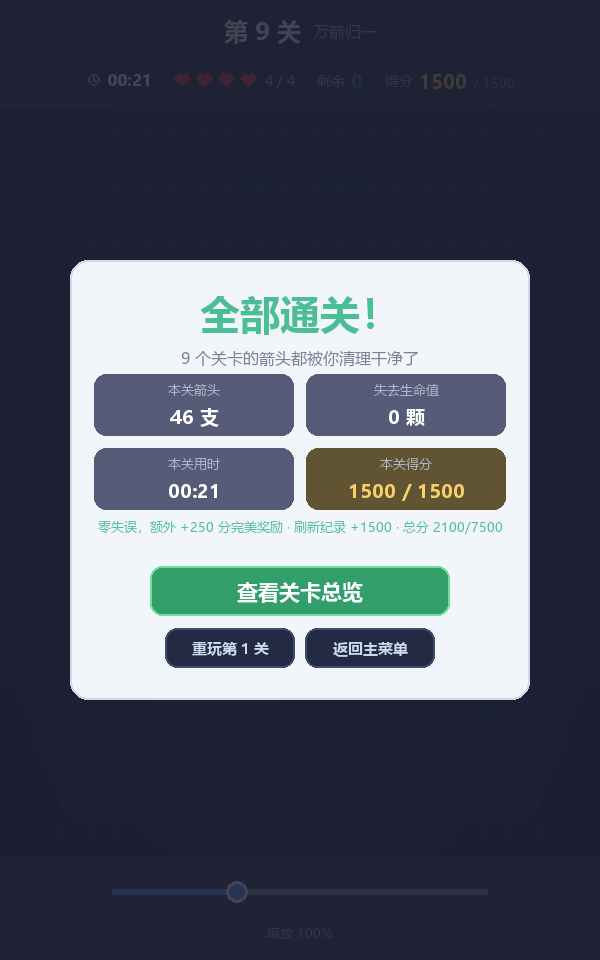
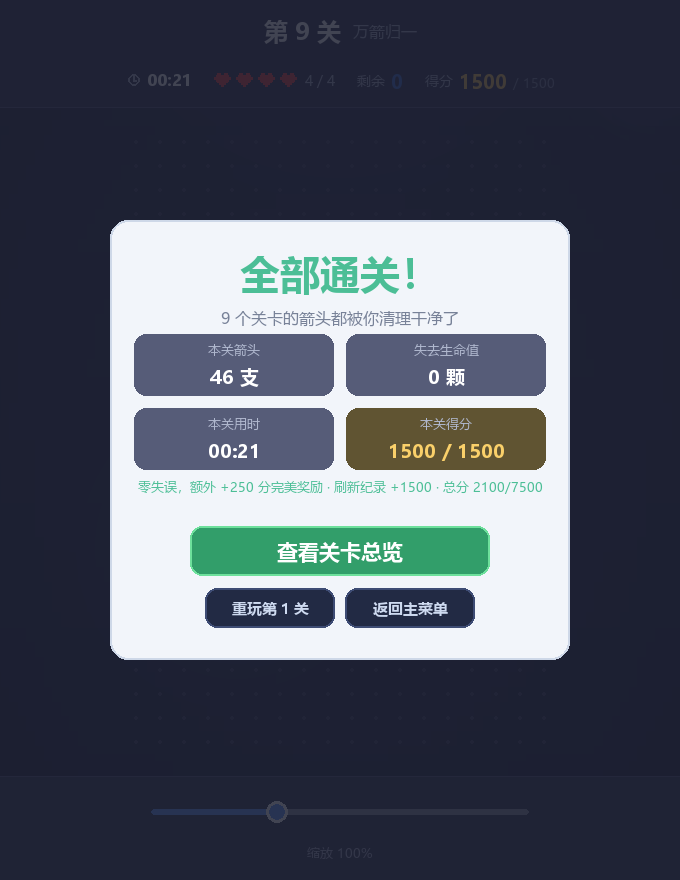
feat: 窗口 680x880 自适应屏幕 + 飞出动效更丝滑
- 窗口 600x960 -> 680x880（更宽更矮），顶栏底栏留白更从容
- main.py 屏幕装不下时自动把整幅逻辑画面等比 smoothscale 缩进
  窗口（逻辑坐标不变，鼠标坐标按比例换算），任何电脑都能看全
- 飞出缓动幂次 1.7 -> 1.35（config.FLY_EASE_POWER）：
  起步立刻有位移、末速收敛，不再「卡一下再飞」
- 飞出帧改 2 倍画布超采样抗锯齿（先和视口裁剪求交，
  实测单帧 +0.2ms），运动边缘不再有锯齿
- 关卡总览页脚两行 y 改为从窗口高度倒推（写死 882 在
  880 高的窗口里正好被裁掉）
- 截图 16 张 + 演示 GIF（408x528 / 199 帧 / 2625 KB）重录
- README / blog（新增记录 17、AIGC 表 19 条）/ 检查清单同步

diff --git a/main.py b/main.py
@@ -22,10 +22,51 @@ from game import config, ui
 from game.app import Game
 
 
+# 屏幕装不下逻辑分辨率时的缩放下限：再小按钮和文字就挤成一团了
+MIN_WINDOW_SCALE = 0.45
+
+
+def _setup_screen():
+    """决定窗口大小，返回 (给 Game 用的画布, 实际窗口, 缩放比)。
+
+    逻辑分辨率永远是 config 里的 680×880——所有界面代码、截图脚本、
+    测试都只认这一套坐标。屏幕装不下时开一个更小的窗口，把整幅逻辑
+    画面 smoothscale 缩进去（等比、带抗锯齿），鼠标坐标再按比例换算
+    回来——游戏代码完全不用感知缩放，电脑上也能看到完整界面。
+    """
+    try:
+        info = pygame.display.Info()
+    except pygame.error:
+        info = None
+    scale = 1.0
+    if info is not None and info.current_w > 0:
+        scale = min(1.0,
+                    (info.current_w - 60) / config.WINDOW_WIDTH,
+                    (info.current_h - 90) / config.WINDOW_HEIGHT)
+        scale = max(scale, MIN_WINDOW_SCALE)
+    if scale >= 1.0:
+        window = pygame.display.set_mode((config.WINDOW_WIDTH, config.WINDOW_HEIGHT))
+        return window, window, 1.0
+    window = pygame.display.set_mode((int(config.WINDOW_WIDTH * scale),
+                                      int(config.WINDOW_HEIGHT * scale)))
+    canvas = pygame.Surface((config.WINDOW_WIDTH, config.WINDOW_HEIGHT))
+    return canvas, window, scale
+
+
+def _rescale_event(event, scale):
+    """把窗口坐标系的鼠标事件换算成逻辑画布坐标系（缩小窗口时用）。"""
+    if scale >= 1.0 or not hasattr(event, "pos") or event.pos is None:
+        return event
+    event.pos = (event.pos[0] / scale, event.pos[1] / scale)
+    if getattr(event, "rel", None) is not None:
+        event.rel = (event.rel[0] / scale, event.rel[1] / scale)
+    return event
+
+
 def main():
     pygame.init()
     try:
-        screen = pygame.display.set_mode((config.WINDOW_WIDTH, config.WINDOW_HEIGHT))
+        canvas, window, scale = _setup_screen()
     except pygame.error as error:            # 例如没有可用的显示设备
         print("无法创建游戏窗口：%s" % error)
         return 1
@@ -35,14 +76,16 @@ def main():
         print("[警告] 未找到中文字体，界面中的中文可能显示为方块。")
 
     clock = pygame.time.Clock()
-    game = Game(screen)
+    game = Game(canvas)
 
     while game.running:
         delta = clock.tick(config.FPS) / 1000.0
         for event in pygame.event.get():
-            game.handle_event(event)
+            game.handle_event(_rescale_event(event, scale))
         game.update(min(delta, 0.05))        # 卡顿时限制单帧步长，避免动画跳帧
         game.draw()
+        if scale < 1.0:                      # 逻辑画面等比缩进实际窗口
+            pygame.transform.smoothscale(canvas, window.get_size(), window)
         pygame.display.flip()
 
     pygame.quit()

diff --git a/game/ui.py b/game/ui.py
@@ -487,6 +487,12 @@ def draw_piece_path(surface, origin, piece, cell, advance):
     直接往 surface 上画两遍（描边 + 本色），不走贴图缓存——贴图是刚体，
     表达不了「弯折在移动」。surface 已被调用方 set_clip 到棋盘视口，
     滑出去的部分会被裁掉。
+
+    抗锯齿：pygame.draw.line / circle 是硬边 API，飞得越快锯齿越晃眼。
+    所以每一帧先在 **2 倍画布**上把这支箭画一遍，再 smoothscale 回 1 倍——
+    相当于给动画开了 2×SSAA，运动边缘顺滑得多。只在飞出动画这一处这么干：
+    静态棋子走贴图缓存（每关渲染一次，开销无所谓），这里每帧都要画，
+    得控制住画布尺寸——先和视口裁剪框求交，箭头飞出视口的部分不画。
     """
     cell = max(4.0, float(cell))
     joints = [(origin[0] + x, origin[1] + y)
@@ -496,11 +502,36 @@ def draw_piece_path(surface, origin, piece, cell, advance):
     head_len = cell * config.PIECE_HEAD_RATIO
     span = cell * config.PIECE_HEAD_SPAN
     grow = 1.0 + config.PIECE_OUTLINE_RATIO
-    _paint_pipe(surface, joints, piece.direction,
+
+    ss = 2                                   # 超采样倍率
+    # 包围盒：折线各点 + 箭头尖伸出的一截，四周留出描边/圆头的余量
+    dx, dy = DIR_VECTORS[piece.direction]
+    tip = (joints[-1][0] + dx * head_len * 0.78,
+           joints[-1][1] + dy * head_len * 0.78)
+    xs = [p[0] for p in joints] + [tip[0]]
+    ys = [p[1] for p in joints] + [tip[1]]
+    pad = stroke * grow * 0.5 + head_len * grow + 2.0
+    bx0, by0 = min(xs) - pad, min(ys) - pad
+    bx1, by1 = max(xs) + pad, max(ys) + pad
+    # 与当前裁剪框求交：飞出视口的部分不必画，画布也不会被拖到很大
+    clip = surface.get_clip()
+    cx0 = max(bx0, clip.left)
+    cy0 = max(by0, clip.top)
+    cx1 = min(bx1, clip.right)
+    cy1 = min(by1, clip.bottom)
+    if cx1 <= cx0 or cy1 <= cy0:
+        return                               # 整支箭已经完全在视口外
+    w = int(math.ceil(cx1 - cx0))
+    h = int(math.ceil(cy1 - cy0))
+
+    canvas = pygame.Surface((w * ss, h * ss), pygame.SRCALPHA)
+    shifted = [((px - cx0) * ss, (py - cy0) * ss) for px, py in joints]
+    _paint_pipe(canvas, shifted, piece.direction,
                 mix_color(color, (0, 0, 0), config.PIECE_OUTLINE_DARKEN),
-                stroke * grow, head_len * grow, span * grow)
-    _paint_pipe(surface, joints, piece.direction, tuple(color),
-                stroke, head_len, span)
+                stroke * grow * ss, head_len * grow * ss, span * grow * ss)
+    _paint_pipe(canvas, shifted, piece.direction, tuple(color),
+                stroke * ss, head_len * ss, span * ss)
+    surface.blit(pygame.transform.smoothscale(canvas, (w, h)), (cx0, cy0))
 
 
 # ------------------------------------------------------------------ 光晕

diff --git a/game/config.py b/game/config.py
@@ -25,8 +25,13 @@
 """
 
 # ------------------------------------------------------------------ 窗口
-WINDOW_WIDTH = 600
-WINDOW_HEIGHT = 960
+# 680×880 而不是早年的 600×960：用户在电脑上窗口超出屏幕、看不到全貌，
+# 于是「改宽一点、也改矮一点」——宽度给了顶栏底栏更从容的排布，
+# 高度收掉 80px（主要来自棋盘视口），整窗在 1080p 屏幕上不再顶到任务栏。
+# 逻辑分辨率之外，main.py 还有第二道保险：屏幕实在装不下时按 pygame.SCALED
+# 整体等比缩小窗口，任何电脑都能看到完整界面。
+WINDOW_WIDTH = 680
+WINDOW_HEIGHT = 880
 WINDOW_TITLE = "一箭又一箭"
 FPS = 60
 
@@ -267,7 +272,12 @@ BG_SHOOT_INTERVAL = (999.0, 1000.0)
 BG_VIGNETTE_ALPHA = 40
 
 # ------------------------------------------------------------------ 动画
-FLY_DURATION = 0.40        # 一整支箭飞出动画时长（秒）
+FLY_DURATION = 0.38        # 一整支箭飞出动画时长（秒）
+# 飞出缓动的幂次：advance = travel * t^FLY_EASE_POWER。
+# 早年的 1.7 起步太黏——前 0.15 秒箭头几乎没动、然后突然窜出去，
+# 手感是「卡一下再飞」；1.35 起步更快、末速也更收敛，看起来是
+# 「被抓一把就顺顺地抽出去」。想要更猛的鞭子感可以调回 1.6~1.7。
+FLY_EASE_POWER = 1.35
 FLY_MARGIN_RATIO = 1.1     # 飞出距离额外多走这么多格
 IMPACT_DURATION = 0.36     # 撞击提示动画时长
 IMPACT_PUSH_RATIO = 0.18   # 撞击时前冲幅度（相对格距）

diff --git a/game/app.py b/game/app.py
@@ -1211,11 +1211,13 @@ class Game:
                          scoring.total_max_score(LEVELS)),
                      (self.width // 2, 748), size=14,
                      color=config.COLOR_TEXT_DIM, anchor="center")
+        # 页脚两行的 y 从窗口高度倒推，别写死——窗口从 960 改矮到 880 时，
+        # 写死的 882 正好落到屏幕外，底部那行快捷键提示被裁掉一半。
         ui.draw_text(self.screen, "点击卡片开始挑战；带锁的关卡需要先通关它前面的一关。",
-                     (self.width // 2, 856), size=13,
+                     (self.width // 2, self.height - 26), size=13,
                      color=config.COLOR_TEXT_FAINT, anchor="center")
         ui.draw_text(self.screen, "Esc 返回主菜单　　空格 继续挑战",
-                     (self.width // 2, 882), size=12,
+                     (self.width // 2, self.height - 7), size=12,
                      color=config.COLOR_TEXT_FAINT, anchor="center")
 
     def draw_level_card(self, rect, index):

diff --git a/game/anim.py b/game/anim.py
@@ -43,8 +43,10 @@ class FlyOut:
 
     @property
     def advance(self):
-        # 用 1.7 次方做缓入，看起来像被"抽"出去一样越来越快
-        return self.travel * (self.progress ** 1.7)
+        # 幂缓动（FLY_EASE_POWER）：起步略黏、越飞越快，像被抽出去。
+        # 幂次从 1.7 降到 1.35——1.7 时前 0.1 秒几乎不动，玩家看到的是
+        # 「卡一下再窜」，不丝滑；1.35 起步立刻有位移、末速也更收敛。
+        return self.travel * (self.progress ** config.FLY_EASE_POWER)
 
     def joints(self):
         """当前帧各折点的棋盘局部坐标（tail -> head），测试盯几何用。"""

diff --git a/docs/blog.md b/docs/blog.md
@@ -432,8 +432,9 @@ return ClickResult(CLICK_BLOCKED, piece, blocker, path)
 | **飞出动画重做（平移 → 沿路径滑出）** | 对话式 AIGC 工具 | 给出「各折点沿路径前进相同弧长」的贪吃蛇式方案 | 拐弯能顺滑地流过去了，但飞出帧还在用整张贴图——刚体表达不了弯折在移动 | 动画期间绕开贴图缓存直接重画；总弧长补上「尾到箭头」一段；弧长边界越界由测试抓住后修正 |
 | **箭头全是等长的** | 对话式 AIGC 工具 | 每支箭头打分时「占格越多越好」，全都朝长度上限长满 | 铺满率高，但一盘里几乎全是等长箭，像尺子铺出来的 | 每支箭先抽目标长度、再按「离目标最近」打分；长短差（标准差）进选关排序键，铺满率 0.91 设硬门槛 |
 | **箭头朝向一边倒** | 对话式 AIGC 工具 | 生成器打分里「射线越长加分越多」，箭头集体朝棋盘长边指（最差一关 76% 同向） | 四个方向挤成两个，和参考画面「四向混指」完全不符 | 生成器加朝向均衡罚分（罚「相对最少方向的差值」）；「最大单朝向占比」进选关排序键；九关全部重新生成，占比压到 26%~45% |
+| **窗口超屏 + 动效不丝滑** | 对话式 AIGC 工具 | 600×960 竖屏在电脑上超出可视范围；飞出缓动 `t^1.7` 起步黏、硬边绘制有锯齿 | 电脑上看不到底部工具栏；动画「卡一下再飞」 | 窗口改 680×880 + 启动时按桌面尺寸等比缩放（逻辑坐标不变，鼠标坐标换算）；缓动幂次降为 1.35、飞出帧改 2 倍画布超采样抗锯齿 |
 
-下面挑其中 16 个展开说（按发生顺序）。
+下面挑其中 17 个展开说（按发生顺序）。
 
 ### 记录 1：第 2 关摆出了死局
 
@@ -828,7 +829,7 @@ def guide_segment(self, piece):
 **踩的坑**：
 
 * 原来的飞出画的是**整张贴图**（缓存好的 Surface），刚体表达不了「弯折在移动」，
-  所以动画那零点四秒必须绕开缓存直接画——描边、本色两遍照旧，观感才和静止时一致；
+  所以动画那不到半秒必须绕开缓存直接画——描边、本色两遍照旧，观感才和静止时一致；
 * 总滑行弧长不能照搬旧算法：旧的是「最靠后的边到视口出口」的直线距离，
   新的要加上「尾巴到箭头的弧长」，不然长箭头滑不完就停在中途；
 * 弧长落点的边界（正好等于折线总长时）先写了 `<=`，数组越界，测试当场抓住。
@@ -903,6 +904,38 @@ def guide_segment(self, piece):
 **这件事的价值**：一是「罚相对差值」比「罚绝对数」聪明——基准跟着盘面走，
 罚分差不会被稀释；二是排序键里混着「越大越好」和「越小越好」的指标时，
 **负号是最容易翻车的地方**，同一个坑一晚上摔了两次。
+
+### 记录 17：电脑上窗口装不下，飞出动效也不够丝滑
+
+**背景**：实机试玩发现两个问题。一是 600×960 的竖屏窗口在电脑上超出了
+屏幕可视范围，底部的按钮和工具栏被任务栏挡住；二是飞出动画改到
+「沿路径滑出」之后，动效还是不够顺——起步黏、飞快时边缘有锯齿。
+
+**我的要求**：窗口改宽一点或改矮一点，电脑上能看到全貌；飞出动效再丝滑一点。
+
+**AI 的方案**：两个问题分开治——
+
+* **窗口**：逻辑分辨率从 600×960 改成 680×880（又宽又矮）。这还不够保险：
+  屏幕如果开了 125% / 150% 缩放，880 也装不下。所以 `main.py` 再加一道
+  自适应——启动时量一下桌面尺寸，装不下就开一个等比缩小的窗口，
+  整幅逻辑画面每帧 `smoothscale` 缩进去（带抗锯齿），鼠标坐标按比例
+  换算回逻辑坐标系。界面代码、截图脚本、测试**完全不用感知缩放**，
+  它们永远只认 680×880 这一套坐标；
+* **动效**：不丝滑的来源拆成两半。一半是**缓动曲线**：原来的 `t^1.7`
+  前 0.1 秒几乎不动、然后突然窜出去，手感是「卡一下再飞」；
+  幂次降到 1.35（提成了 `config.FLY_EASE_POWER`），起步立刻有位移、
+  末速也更收敛。另一半是**锯齿**：`pygame.draw.line` 是硬边 API，
+  飞得越快锯齿越晃眼——飞出这一帧改为先在 **2 倍画布**上画一遍再
+  smoothscale 回来，相当于 2×SSAA，运动边缘顺滑得多。
+  画布先和视口裁剪框求交，飞出视口的部分不画，实测单帧只多花
+  0.2 毫秒左右。
+
+**验证**：222 条测试全部通过；16 张截图与演示 GIF（408×528、2625 KB）
+按新窗口重录；动画绘制耗时 60 帧均值 0.19ms，60 FPS 无压力。
+
+**这件事的价值**：**「界面代码只认一套逻辑坐标」这条纪律又救了一次**——
+正因为所有尺寸都从 config 常量推导，窗口适配只改了入口一个文件；
+要是布局里散落着写死的 600×960，这就是一次全项目的地毯式返工。
 
 ---
 

diff --git a/README.md b/README.md
@@ -397,7 +397,7 @@ def highest_unlocked(self, total):
 > 九关的最大单朝向占比压在 26%~45%，四个方向都看得到箭头）。
 >
 > 棋盘尺寸一律取**竖着的**（行数 > 列数）：这个游戏按手机竖屏比例做
-> （窗口 600×960，棋盘视口约 572×728），竖长方形的棋盘才能把视口填满，
+> （窗口 680×880，棋盘视口约 652×648），竖长方形的棋盘才能把视口填满，
 > 不至于上下各空出一条。
 
 **难度是怎么控制的**
